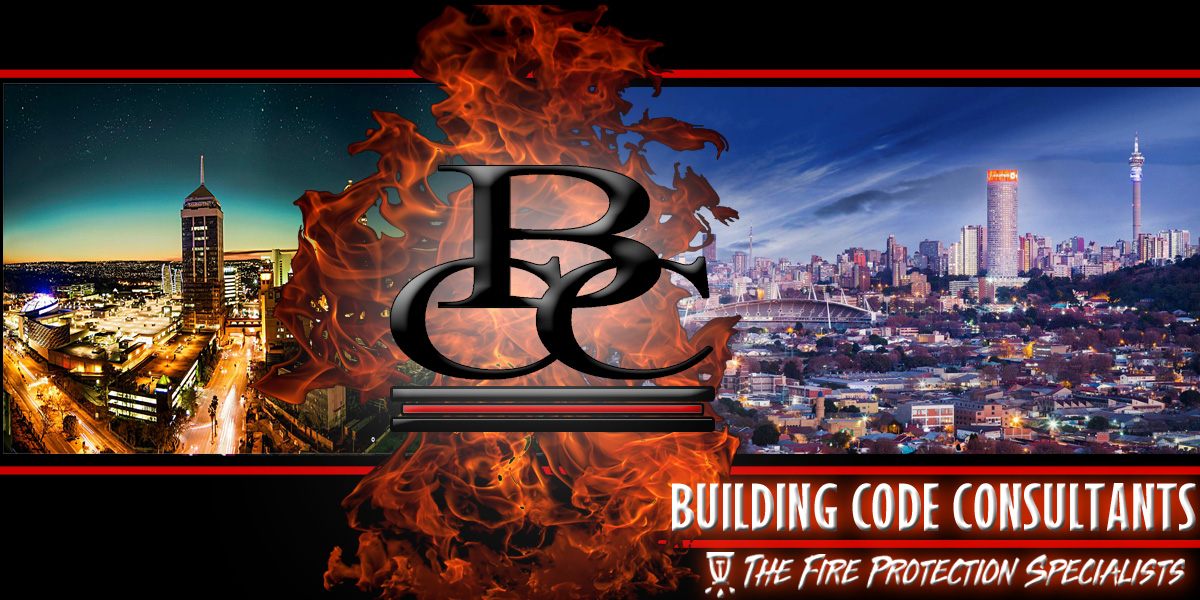
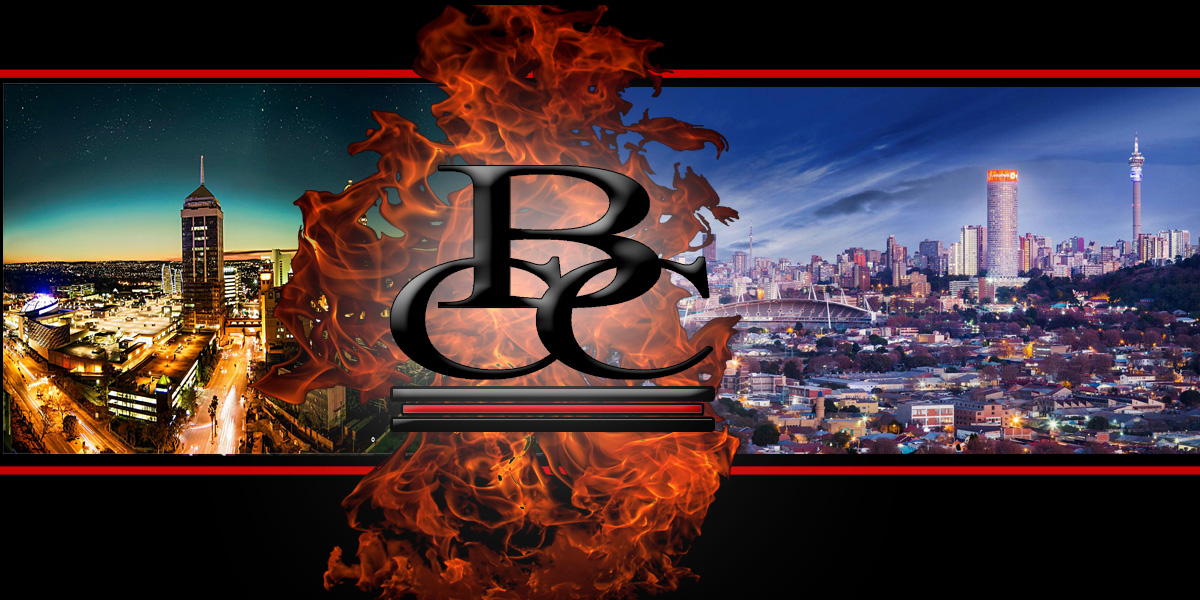
making progress

Changed region(s): [[0.5242, 0.78, 1.0, 1.0]]

diff --git a/css/style.css b/css/style.css
@@ -1,22 +1,17 @@
-/*
-  Theme Name: BizPage
-  Theme URL: https://bootstrapmade.com/bizpage-bootstrap-business-template/
-  Author: BootstrapMade.com
-  License: https://bootstrapmade.com/license/
-*/
 /*--------------------------------------------------------------
 # General
 --------------------------------------------------------------*/
 #mainpic {
   background-size:cover;
   width:100%;
+  position: absolute;
 }
 
 
 body {
   background: #fff;
   color: #666666;
-  font-family: "Open Sans", sans-serif;
+  font-family: 'Rubik', sans-serif;
 }
 
 a {
@@ -36,7 +31,7 @@ p {
 }
 
 h1, h2, h3, h4, h5, h6 {
-  font-family: "Montserrat", sans-serif;
+  font-family: 'Fjalla One', sans-serif;
   font-weight: 400;
   margin: 0 0 20px 0;
   padding: 0;
@@ -108,7 +103,7 @@ h1, h2, h3, h4, h5, h6 {
   margin: 0;
   padding: 0;
   line-height: 1;
-  font-family: "Montserrat", sans-serif;
+  font-family: 'Fjalla One', sans-serif;
   font-weight: 700;
   letter-spacing: 3px;
 }
@@ -251,7 +246,7 @@ h1, h2, h3, h4, h5, h6 {
 }
 
 #intro .btn-get-started {
-  font-family: "Montserrat", sans-serif;
+  font-family: 'Fjalla One', sans-serif;
   font-weight: 500;
   font-size: 16px;
   letter-spacing: 1px;
@@ -352,9 +347,9 @@ h1, h2, h3, h4, h5, h6 {
   text-decoration: none;
   display: inline-block;
   color: #fff;
-  font-family: "Montserrat", sans-serif;
+  font-family: 'Fjalla One', sans-serif;
   font-weight: 700;
-  font-size: 13px;
+  font-size: 18px;
   text-transform: uppercase;
   outline: none;
 }
@@ -457,7 +452,7 @@ h1, h2, h3, h4, h5, h6 {
   display: block;
   outline: none;
   font-weight: 700;
-  font-family: "Montserrat", sans-serif;
+  font-family: 'Fjalla One', sans-serif;
 }
 
 #mobile-nav ul li a:hover {
@@ -702,9 +697,25 @@ body.mobile-nav-active #mobile-nav-toggle {
 /* Services Section
 --------------------------------*/
 #services {
-  background: #fff;
+  background: url("../img/About-bg1.png") center top no-repeat fixed;
   background-size: cover;
   padding: 60px 0 40px 0;
+  position: relative;
+}
+
+#services::before {
+  content: '';
+  position: absolute;
+  left: 0;
+  right: 0;
+  top: 0;
+  bottom: 0;
+  background: rgba(255, 255, 255, 0.8);
+}
+
+#about .container {
+  position: relative;
+  z-index: 10;
 }
 
 #services .box {
@@ -755,7 +766,7 @@ body.mobile-nav-active #mobile-nav-toggle {
 }
 
 #skills .progress .skill {
-  font-family: "Open Sans", sans-serif;
+  font-family: 'Rubik', sans-serif;
   line-height: 35px;
   padding: 0;
   margin: 0 0 0 20px;
@@ -800,7 +811,7 @@ body.mobile-nav-active #mobile-nav-toggle {
 }
 
 #facts .counters span {
-  font-family: "Montserrat", sans-serif;
+  font-family: 'Fjalla One', sans-serif;
   font-weight: bold;
   font-size: 48px;
   display: block;
@@ -810,7 +821,7 @@ body.mobile-nav-active #mobile-nav-toggle {
 #facts .counters p {
   padding: 0;
   margin: 0 0 20px 0;
-  font-family: "Montserrat", sans-serif;
+  font-family: 'Fjalla One', sans-serif;
   font-size: 14px;
   color: #111;
 }
@@ -935,7 +946,7 @@ body.mobile-nav-active #mobile-nav-toggle {
 }
 
 #portfolio .portfolio-item .portfolio-info {
-  background: rgba(184, 9, 9, 0.212);
+  background: #b90606;
   text-align: center;
   padding: 30px;
   height: 90px;
@@ -970,7 +981,26 @@ body.mobile-nav-active #mobile-nav-toggle {
 /* Clients Section
 --------------------------------*/
 #clients {
-  padding: 60px 0;
+  background: url("../img/ClientsBG.jpg") center top no-repeat fixed;
+  background-size: cover;
+  padding: 60px 0 40px 0;
+  position: relative;
+}
+
+#clients::before {
+  content: '';
+  position: absolute;
+  left: 0;
+  right: 0;
+  top: 0;
+  bottom: 0;
+  background: rgba(255, 255, 255, 0.8);
+  z-index: 9;
+}
+
+#clients .container {
+  position: relative;
+  z-index: 10;
 }
 
 #clients img {
@@ -1005,8 +1035,26 @@ body.mobile-nav-active #mobile-nav-toggle {
 /* Team Section
 --------------------------------*/
 #team {
-  background: rgb(0, 0, 0);
-  padding: 60px 0;
+  background: url("../img/TeamBG.jpg") center top no-repeat fixed;
+  background-size: cover;
+  padding: 60px 0 40px 0;
+  position: relative;
+}
+
+#team::before {
+  content: '';
+  position: absolute;
+  left: 0;
+  right: 0;
+  top: 0;
+  bottom: 0;
+  background: rgba(0, 0, 0, 0.8);
+  z-index: 9;
+}
+
+#team .container {
+  position: relative;
+  z-index: 10;
 }
 
 #team .member {
@@ -1209,7 +1257,7 @@ body.mobile-nav-active #mobile-nav-toggle {
   margin: 0 0 20px 0;
   padding: 2px 0 2px 10px;
   line-height: 1;
-  font-family: "Montserrat", sans-serif;
+  font-family: 'Fjalla One', sans-serif;
   font-weight: 700;
   letter-spacing: 3px;
   border-left: 4px solid #b90606;
@@ -1219,7 +1267,7 @@ body.mobile-nav-active #mobile-nav-toggle {
   font-size: 14px;
   line-height: 24px;
   margin-bottom: 0;
-  font-family: "Montserrat", sans-serif;
+  font-family: 'Fjalla One', sans-serif;
   color: #eee;
 }
 

diff --git a/index.html b/index.html
@@ -12,8 +12,7 @@
   <link href="img/bcc_vector_xQ3_icon.ico" rel="apple-touch-icon">
 
   <!-- Google Fonts -->
-  <link href="https://fonts.googleapis.com/css?family=Open+Sans:300,300i,400,400i,700,700i|Montserrat:300,400,500,700" rel="stylesheet">
-
+  <link href="https://fonts.googleapis.com/css?family=Fjalla+One|Rubik" rel="stylesheet">
   <!-- Bootstrap CSS File -->
   <link href="lib/bootstrap/css/bootstrap.min.css" rel="stylesheet">
 
@@ -26,11 +25,11 @@
 
   <!-- Main Stylesheet File -->
   <link href="css/style.css" rel="stylesheet">
+  <link rel="stylesheet" type="text/css" href="assets/css/morecss.css">
 
 </head>
 
 <body>
-
   <!--==========================
     Header
   ============================-->
@@ -38,7 +37,7 @@
     <div class="container-fluid">
 
       <div id="logo" class="pull-left">
-        <h1><a href="#intro" class="scrollto">BCC</a></h1>
+        <h1><a href="#intro" class="scrollto">BUILDING CODE CONSULTANTS</a></h1>
         <!-- Uncomment below if you prefer to use an image logo -->
         <!-- <a href="#intro"><img src="img/logo.png" alt="" title="" /></a>-->
       </div>
@@ -63,6 +62,7 @@
 
           <div>
             <img id="mainpic" src="/img/intro-carousel/4.jpg">
+            <img style="width:12%; position:relative; left:74%; margin-top:39%" src="/img/Fire Alarm.gif">
           </div>
          
                           
@@ -87,7 +87,7 @@
                 <img src="img/AboutUs/1.jpg" alt="" class="img-fluid">
                 <div class="icon"><i class="ion-ios-speedometer-outline"></i></div>
               </div>
-              <h2 class="title"><a href="#">Our Mission</a></h2>
+              <h2 class="title"><a href="#">OUR MISSION</a></h2>
               <p>
                 Lorem ipsum dolor sit amet, consectetur elit, sed do eiusmod tempor ut labore et dolore magna aliqua. Ut enim ad minim veniam, quis nostrud exercitation ullamco laboris nisi ut aliquip ex ea commodo consequat.
               </p>
@@ -100,7 +100,7 @@
                 <img src="img/AboutUs/2.jpg" alt="" class="img-fluid">
                 <div class="icon"><i class="ion-ios-list-outline"></i></div>
               </div>
-              <h2 class="title"><a href="#">Our Plan</a></h2>
+              <h2 class="title"><a href="#">OUR PLAN</a></h2>
               <p>
                 Sed ut perspiciatis unde omnis iste natus error sit voluptatem  doloremque laudantium, totam rem aperiam, eaque ipsa quae ab illo inventore veritatis et quasi architecto beatae vitae dicta sunt explicabo.
               </p>
@@ -113,7 +113,7 @@
                 <img src="img/AboutUs/3.jpg" alt="" class="img-fluid">
                 <div class="icon"><i class="ion-ios-eye-outline"></i></div>
               </div>
-              <h2 class="title"><a href="#">Our Vision</a></h2>
+              <h2 class="title"><a href="#">OUR VISION</a></h2>
               <p>
                 Nemo enim ipsam voluptatem quia voluptas sit aut odit aut fugit, sed quia magni dolores eos qui ratione voluptatem sequi nesciunt Neque porro quisquam est, qui dolorem ipsum quia dolor sit amet.
               </p>
@@ -609,8 +609,7 @@
         <div class="row">
 
           <div class="col-lg-3 col-md-6 footer-info">
-            <h3>BizPage</h3>
-            <p>Cras fermentum odio eu feugiat lide par naso tierra. Justo eget nada terra videa magna derita valies darta donna mare fermentum iaculis eu non diam phasellus. Scelerisque felis imperdiet proin fermentum leo. Amet volutpat consequat mauris nunc congue.</p>
+            <img style="width:200px" src="/img/BCC Vector2.png">
           </div>
 
           <div class="col-lg-3 col-md-6 footer-links">
@@ -693,6 +692,7 @@
 
   <!-- Template Main Javascript File -->
   <script src="js/main.js"></script>
+  <script type="text/javascript" src="assets/js/morejs.js"></script>
 
 </body>
 </html>
